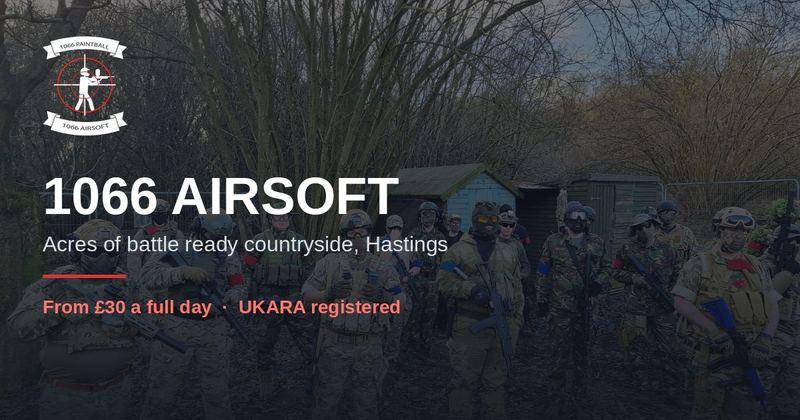
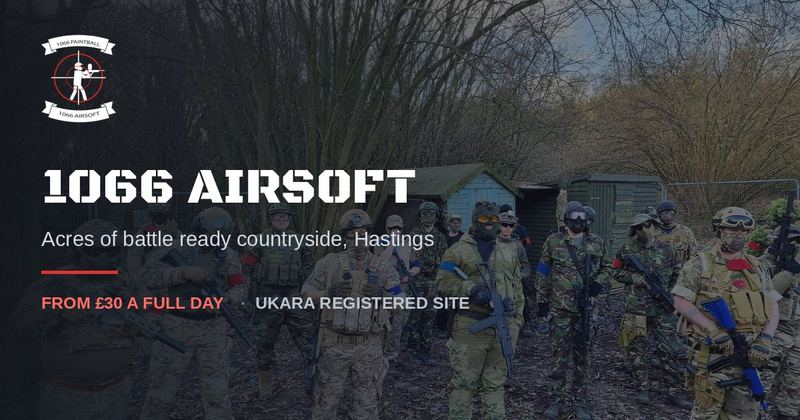
1066 preview: polish pass

diff --git a/1066/paintball/index.html b/1066/paintball/index.html
@@ -20,7 +20,7 @@
 <link rel="preconnect" href="https://fonts.googleapis.com">
 <link rel="preconnect" href="https://fonts.gstatic.com" crossorigin>
 <link rel="stylesheet" href="https://fonts.googleapis.com/css2?family=Black+Ops+One&family=Barlow+Semi+Condensed:wght@400;500;600;700&display=swap">
-<link rel="stylesheet" href="/1066/paintball/assets/site.css?v=12b3bb0a">
+<link rel="stylesheet" href="/1066/paintball/assets/site.css?v=58c3680c">
 <script type="application/ld+json">
 {
  "@context":"https://schema.org",
@@ -103,7 +103,7 @@
 
 <section class="statstrip">
   <div class="wrap">
-    <div class="stat"><b>25</b><span>sessions in 2026</span></div>
+    <div class="stat"><b>25</b><span>sessions a year</span></div>
     <div class="stat"><b>&pound;30</b><span>per person, full day</span></div>
     <div class="stat"><b>10+</b><span>minimum age</span></div>
     <div class="stat"><b>3</b><span>battlezones</span></div>

diff --git a/1066/airsoft/index.html b/1066/airsoft/index.html
@@ -20,7 +20,7 @@
 <link rel="preconnect" href="https://fonts.googleapis.com">
 <link rel="preconnect" href="https://fonts.gstatic.com" crossorigin>
 <link rel="stylesheet" href="https://fonts.googleapis.com/css2?family=Black+Ops+One&family=Barlow+Semi+Condensed:wght@400;500;600;700&display=swap">
-<link rel="stylesheet" href="/1066/airsoft/assets/site.css?v=12b3bb0a">
+<link rel="stylesheet" href="/1066/airsoft/assets/site.css?v=58c3680c">
 <script type="application/ld+json">
 {
  "@context":"https://schema.org",
@@ -103,7 +103,7 @@
 
 <section class="statstrip">
   <div class="wrap">
-    <div class="stat"><b>25</b><span>game days in 2026</span></div>
+    <div class="stat"><b>25</b><span>game days a year</span></div>
     <div class="stat"><b>&pound;30</b><span>per person, full day</span></div>
     <div class="stat"><b>10+</b><span>minimum age</span></div>
     <div class="stat"><b>3</b><span>battlezones</span></div>

diff --git a/1066/airsoft/assets/site.css b/1066/airsoft/assets/site.css
@@ -750,3 +750,9 @@ h1{letter-spacing:-.005em}
 /* The calendar spans two years now, so each date carries its year. */
 .datelist li{display:flex;justify-content:space-between;align-items:baseline;gap:10px}
 .datelist li span{color:var(--muted);font-size:.8rem}
+
+/* The gallery had a fixed six columns, so paintball's four frames left a hole
+   on the right. Fit to whatever is there instead. */
+.gallery{grid-template-columns:repeat(auto-fit,minmax(150px,1fr))}
+@media (max-width:1040px){.gallery{grid-template-columns:repeat(auto-fit,minmax(140px,1fr))}}
+@media (max-width:560px){.gallery{grid-template-columns:repeat(2,1fr)}}

diff --git a/1066/paintball/assets/site.css b/1066/paintball/assets/site.css
@@ -750,3 +750,9 @@ h1{letter-spacing:-.005em}
 /* The calendar spans two years now, so each date carries its year. */
 .datelist li{display:flex;justify-content:space-between;align-items:baseline;gap:10px}
 .datelist li span{color:var(--muted);font-size:.8rem}
+
+/* The gallery had a fixed six columns, so paintball's four frames left a hole
+   on the right. Fit to whatever is there instead. */
+.gallery{grid-template-columns:repeat(auto-fit,minmax(150px,1fr))}
+@media (max-width:1040px){.gallery{grid-template-columns:repeat(auto-fit,minmax(140px,1fr))}}
+@media (max-width:560px){.gallery{grid-template-columns:repeat(2,1fr)}}

diff --git a/1066/paintball/battlezones/index.html b/1066/paintball/battlezones/index.html
@@ -20,7 +20,7 @@
 <link rel="preconnect" href="https://fonts.googleapis.com">
 <link rel="preconnect" href="https://fonts.gstatic.com" crossorigin>
 <link rel="stylesheet" href="https://fonts.googleapis.com/css2?family=Black+Ops+One&family=Barlow+Semi+Condensed:wght@400;500;600;700&display=swap">
-<link rel="stylesheet" href="/1066/paintball/assets/site.css?v=12b3bb0a">
+<link rel="stylesheet" href="/1066/paintball/assets/site.css?v=58c3680c">
 <script type="application/ld+json">
 {
  "@context":"https://schema.org",

diff --git a/1066/paintball/contact/index.html b/1066/paintball/contact/index.html
@@ -20,7 +20,7 @@
 <link rel="preconnect" href="https://fonts.googleapis.com">
 <link rel="preconnect" href="https://fonts.gstatic.com" crossorigin>
 <link rel="stylesheet" href="https://fonts.googleapis.com/css2?family=Black+Ops+One&family=Barlow+Semi+Condensed:wght@400;500;600;700&display=swap">
-<link rel="stylesheet" href="/1066/paintball/assets/site.css?v=12b3bb0a">
+<link rel="stylesheet" href="/1066/paintball/assets/site.css?v=58c3680c">
 <script type="application/ld+json">
 {
  "@context":"https://schema.org",

diff --git a/1066/paintball/faq/index.html b/1066/paintball/faq/index.html
@@ -20,7 +20,7 @@
 <link rel="preconnect" href="https://fonts.googleapis.com">
 <link rel="preconnect" href="https://fonts.gstatic.com" crossorigin>
 <link rel="stylesheet" href="https://fonts.googleapis.com/css2?family=Black+Ops+One&family=Barlow+Semi+Condensed:wght@400;500;600;700&display=swap">
-<link rel="stylesheet" href="/1066/paintball/assets/site.css?v=12b3bb0a">
+<link rel="stylesheet" href="/1066/paintball/assets/site.css?v=58c3680c">
 <script type="application/ld+json">
 {
  "@context":"https://schema.org",

diff --git a/1066/paintball/new-players/index.html b/1066/paintball/new-players/index.html
@@ -20,7 +20,7 @@
 <link rel="preconnect" href="https://fonts.googleapis.com">
 <link rel="preconnect" href="https://fonts.gstatic.com" crossorigin>
 <link rel="stylesheet" href="https://fonts.googleapis.com/css2?family=Black+Ops+One&family=Barlow+Semi+Condensed:wght@400;500;600;700&display=swap">
-<link rel="stylesheet" href="/1066/paintball/assets/site.css?v=12b3bb0a">
+<link rel="stylesheet" href="/1066/paintball/assets/site.css?v=58c3680c">
 <script type="application/ld+json">
 {
  "@context":"https://schema.org",

diff --git a/1066/paintball/parties/index.html b/1066/paintball/parties/index.html
@@ -20,7 +20,7 @@
 <link rel="preconnect" href="https://fonts.googleapis.com">
 <link rel="preconnect" href="https://fonts.gstatic.com" crossorigin>
 <link rel="stylesheet" href="https://fonts.googleapis.com/css2?family=Black+Ops+One&family=Barlow+Semi+Condensed:wght@400;500;600;700&display=swap">
-<link rel="stylesheet" href="/1066/paintball/assets/site.css?v=12b3bb0a">
+<link rel="stylesheet" href="/1066/paintball/assets/site.css?v=58c3680c">
 <script type="application/ld+json">
 {
  "@context":"https://schema.org",

diff --git a/1066/paintball/prices/index.html b/1066/paintball/prices/index.html
@@ -20,7 +20,7 @@
 <link rel="preconnect" href="https://fonts.googleapis.com">
 <link rel="preconnect" href="https://fonts.gstatic.com" crossorigin>
 <link rel="stylesheet" href="https://fonts.googleapis.com/css2?family=Black+Ops+One&family=Barlow+Semi+Condensed:wght@400;500;600;700&display=swap">
-<link rel="stylesheet" href="/1066/paintball/assets/site.css?v=12b3bb0a">
+<link rel="stylesheet" href="/1066/paintball/assets/site.css?v=58c3680c">
 <script type="application/ld+json">
 {
  "@context":"https://schema.org",

diff --git a/1066/paintball/sessions/index.html b/1066/paintball/sessions/index.html
@@ -20,7 +20,7 @@
 <link rel="preconnect" href="https://fonts.googleapis.com">
 <link rel="preconnect" href="https://fonts.gstatic.com" crossorigin>
 <link rel="stylesheet" href="https://fonts.googleapis.com/css2?family=Black+Ops+One&family=Barlow+Semi+Condensed:wght@400;500;600;700&display=swap">
-<link rel="stylesheet" href="/1066/paintball/assets/site.css?v=12b3bb0a">
+<link rel="stylesheet" href="/1066/paintball/assets/site.css?v=58c3680c">
 <script type="application/ld+json">
 {
  "@context":"https://schema.org",

diff --git a/1066/airsoft/battlezones/index.html b/1066/airsoft/battlezones/index.html
@@ -20,7 +20,7 @@
 <link rel="preconnect" href="https://fonts.googleapis.com">
 <link rel="preconnect" href="https://fonts.gstatic.com" crossorigin>
 <link rel="stylesheet" href="https://fonts.googleapis.com/css2?family=Black+Ops+One&family=Barlow+Semi+Condensed:wght@400;500;600;700&display=swap">
-<link rel="stylesheet" href="/1066/airsoft/assets/site.css?v=12b3bb0a">
+<link rel="stylesheet" href="/1066/airsoft/assets/site.css?v=58c3680c">
 <script type="application/ld+json">
 {
  "@context":"https://schema.org",
